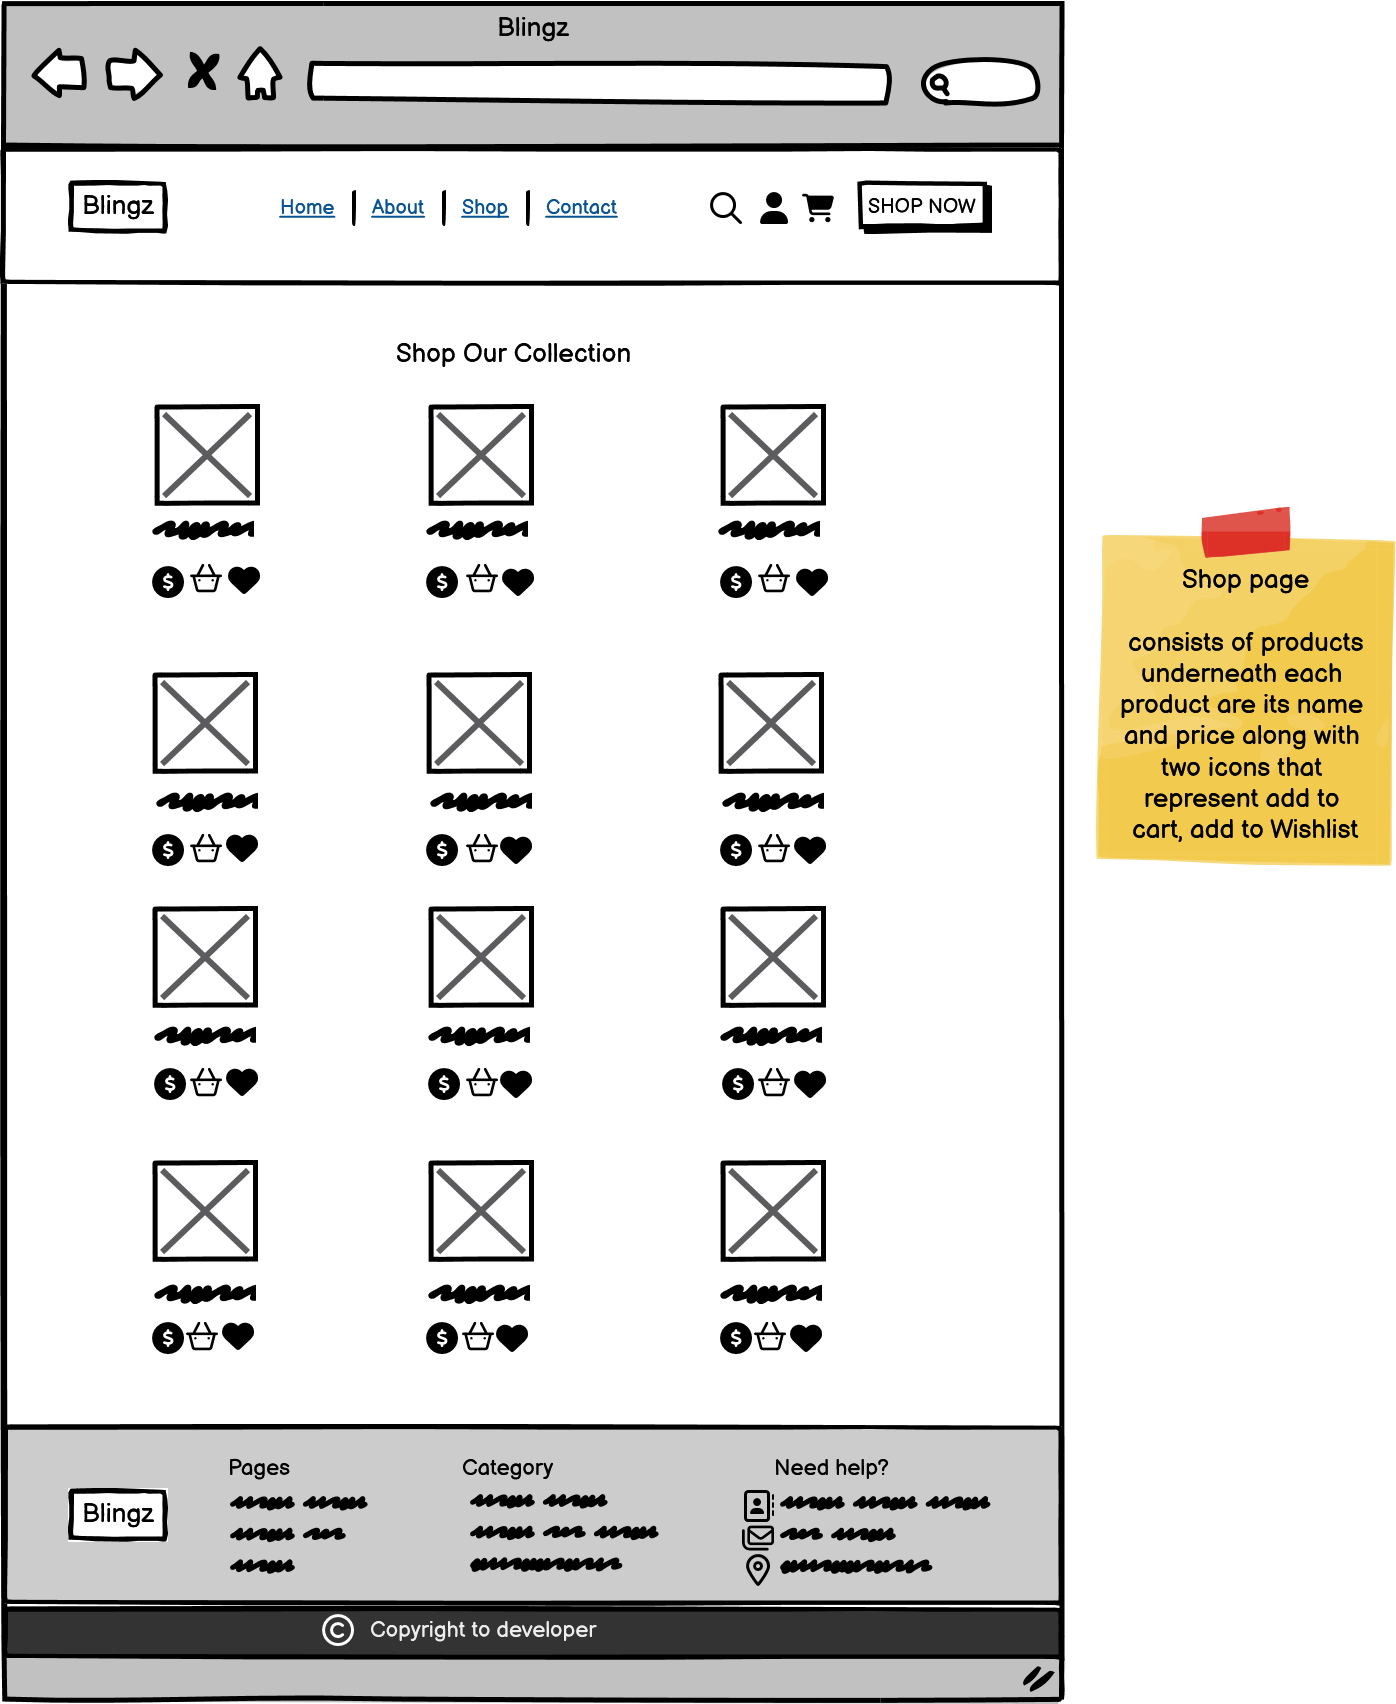
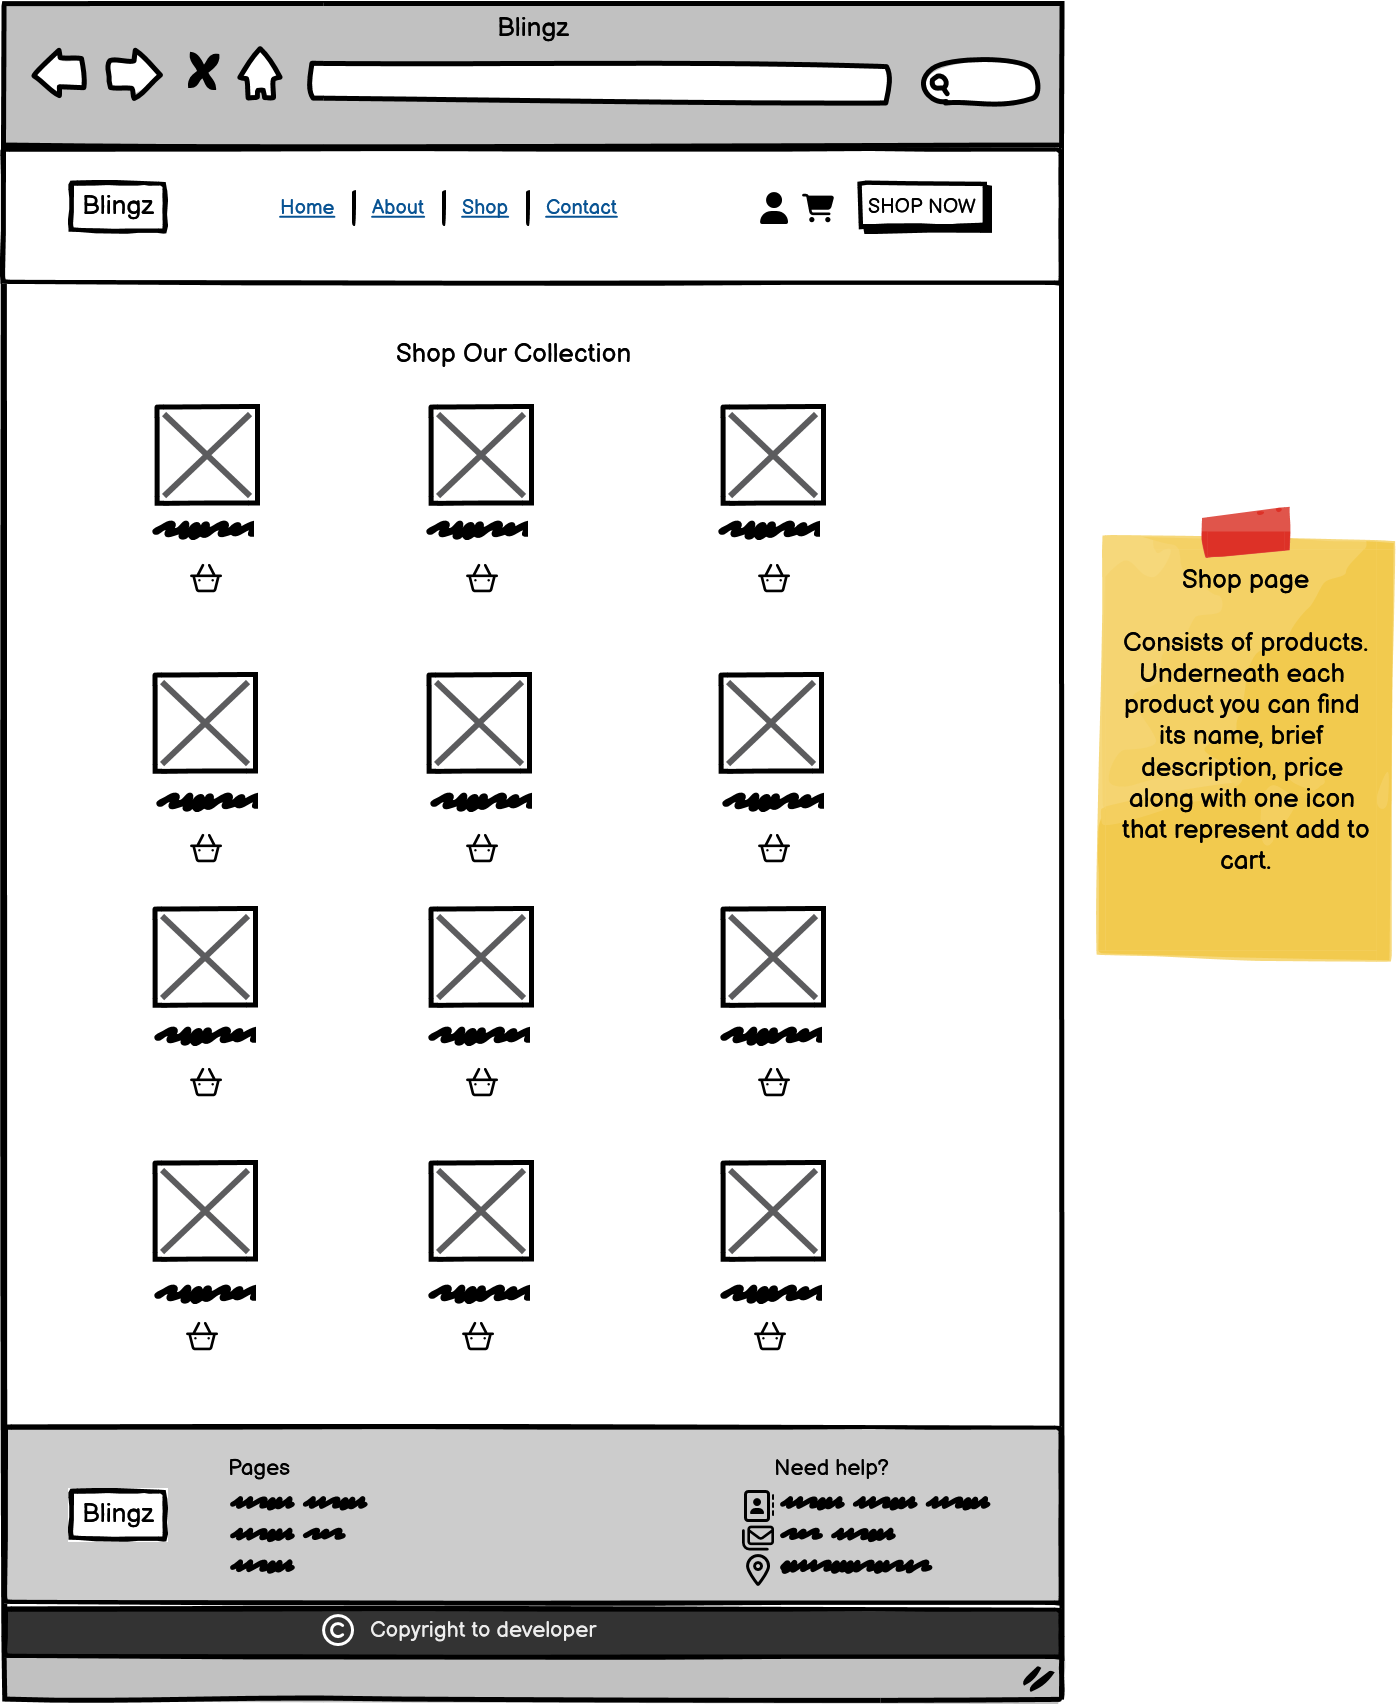
Updated wireframes

diff --git a/README.md b/README.md
@@ -72,20 +72,19 @@ Home page:
 
 - Homepage with a brief introduction of the brand, showcasing some products in a grid format. Each product has an image, title, and button to explore more.
 - section that consists of customer ratings and reviews.
-- product filter feature, allowing customers to narrow down their search by category or price range.
-- Product page that displays detailed product information, including additional images, reviews, customer ratings, and related items.
+- few sections that provide information to the user/customer.
 
 Shop page:
 
 - Display a comprehensive shop section featuring a list of jewellery items.
 - Include essential details such as item descriptions, prices, and ratings for each product.
 - Allow users to add products to their virtual shopping cart before purchasing them.
-- Wishlist: Provide an option for users to save/favourite items they like so they can easily access them later on.
 
 User Accounts:
 
 - Provide users with the option to create a personal account on the website and update their details.
 - Allow registered users to log in securely to access personalized features.
+- Ability for the user to delete their profile.
 
 Shopping Cart Management:
 
@@ -93,17 +92,17 @@ Shopping Cart Management:
 - Allow users to view the contents of their cart, review item details, and see the total cost.
 - Implement the ability to adjust and update the quantity of items in the cart. Provide an option to delete unwanted items from the shopping cart.
 
-Rating and Reviews:
-
-- Allow users to rate individual jewellery items based on their preferences.
-- Implement a review system, enabling users to leave detailed reviews and comments under each product.
-
 Contact page:
 
 - Multiple ways for contacting customer support, including a contact form for written queries.
 - Key contact information, such as phone numbers and email addresses, for more urgent enquiries.
 
 ### Features left to implement
+
+In the future, if I have some time, I plan to add these features.
+- product filter feature, allowing customers to narrow down their search by category or price range.
+- Allow users to rate individual jewellery items based on their preferences.
+- Implement a review system, enabling users to leave detailed reviews and comments under each product.
 
 ## Accessibility
 
@@ -118,8 +117,8 @@ Contact page:
 
 - HTML5 - to create the structure of the site.
 - CSS3 - to add styling to the site.
-- JavaScript - to add functionality.
-- Python - for backend development.
+- JavaScript + JQuery - to add functionality.
+- Python with flask - for backend development.
 
 ### Libraries, frameworks and other useful websites:
 
@@ -139,17 +138,7 @@ Contact page:
 
 ### Databases and API
 
-The project has database and APIs used:
-
-- MongoDB
--
-
-### Testing:
-
-- Chrome DevTools used for testing and debugging during development.
-- W3C Markup Validation employed for HTML code testing.
-- W3C CSS Validation Service utilized for CSS code testing.
-- Jshint for testing Javascript code.
+The project has database API as well as curd functionality been implemented through MongoDB:
 
 ## Testing
 
